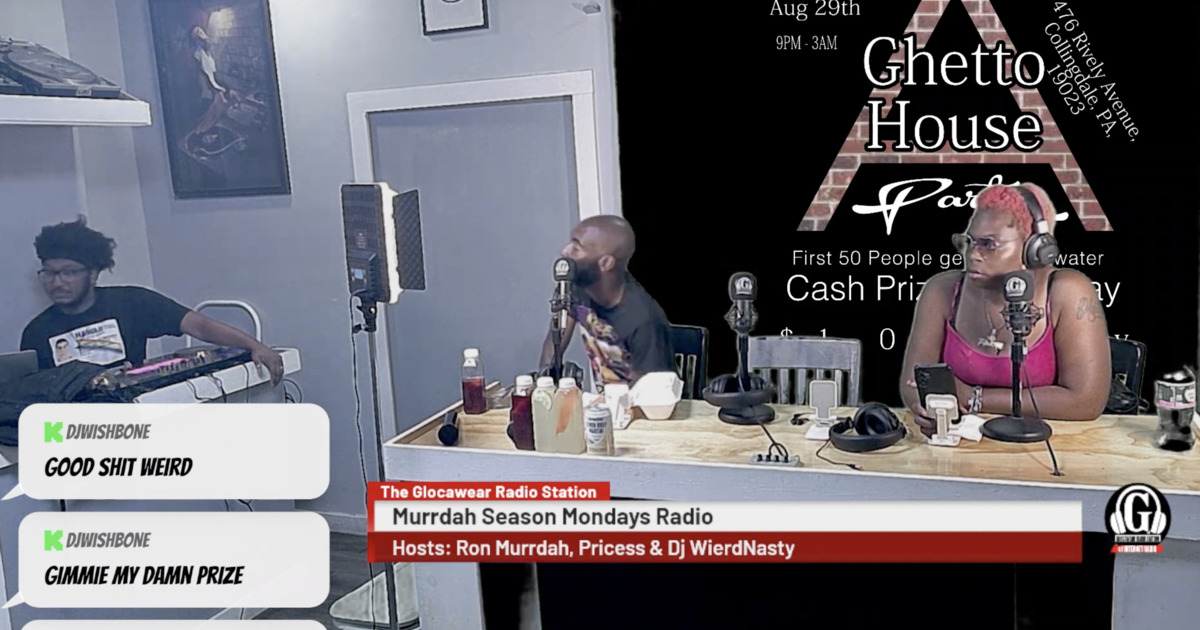
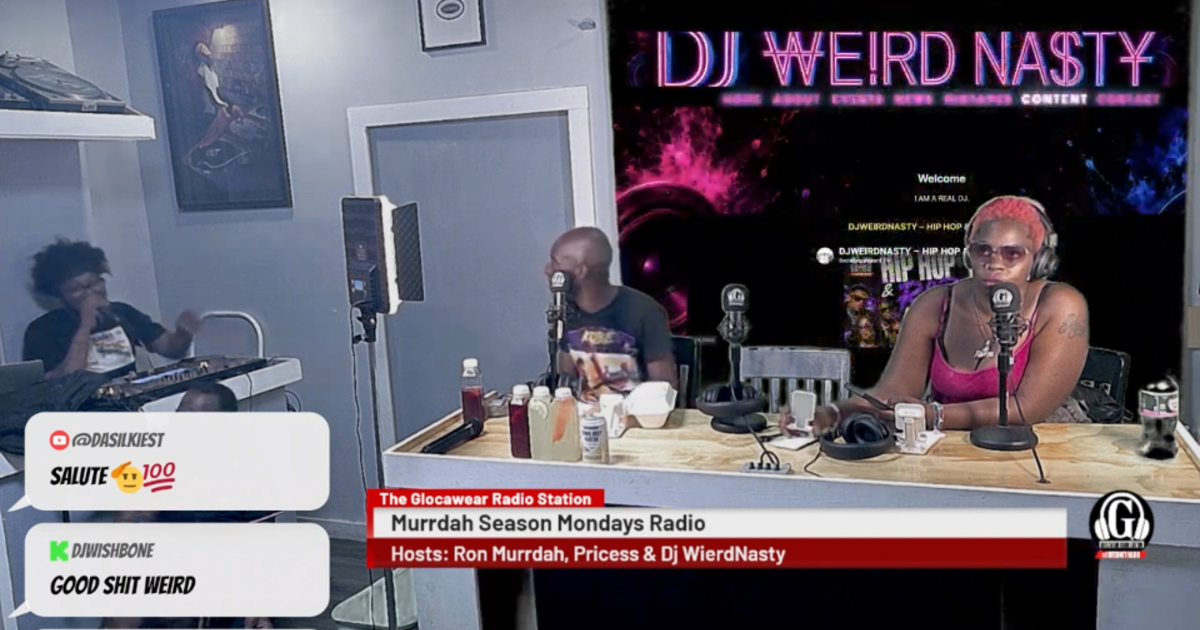
Update Murrdah preview and page with new clean screenshot

diff --git a/murrdah-season-monday.html b/murrdah-season-monday.html
@@ -49,7 +49,7 @@
   </header>
   <main class="container">
     <section class="info" style="text-align: center; max-width: 700px; margin: 2rem auto;">
-      <img src="murrdah-season-monday-thumb.png" alt="Murrdah Season Monday Live on Glocawear Radio" style="width: 100%; max-width: 600px; border-radius: 12px; margin-bottom: 1.5rem;" />
+      <img src="msm-screenshot.jpg" alt="Murrdah Season Monday Live on Glocawear Radio" style="width: 100%; max-width: 600px; border-radius: 12px; margin-bottom: 1.5rem;" />
       <h2 style="margin-bottom: 0.5rem;">Murrdah Season Monday Live on Glocawear Radio</h2>
       <p style="margin-bottom: 1.5rem;">Ayo Weird speaks on meeting Skrilla, Ron Murrdah shares his experience on public transportation and Princess do Trending Topics.</p>
       <a href="content.html#murrdah-season-monday" class="playlist-link" style="display: inline-block; padding: 0.8rem 2rem; font-size: 1.1rem; background: #ff5bd7; color: #fff; border-radius: 8px; text-decoration: none; font-weight: bold;">▶ Watch Now</a>
